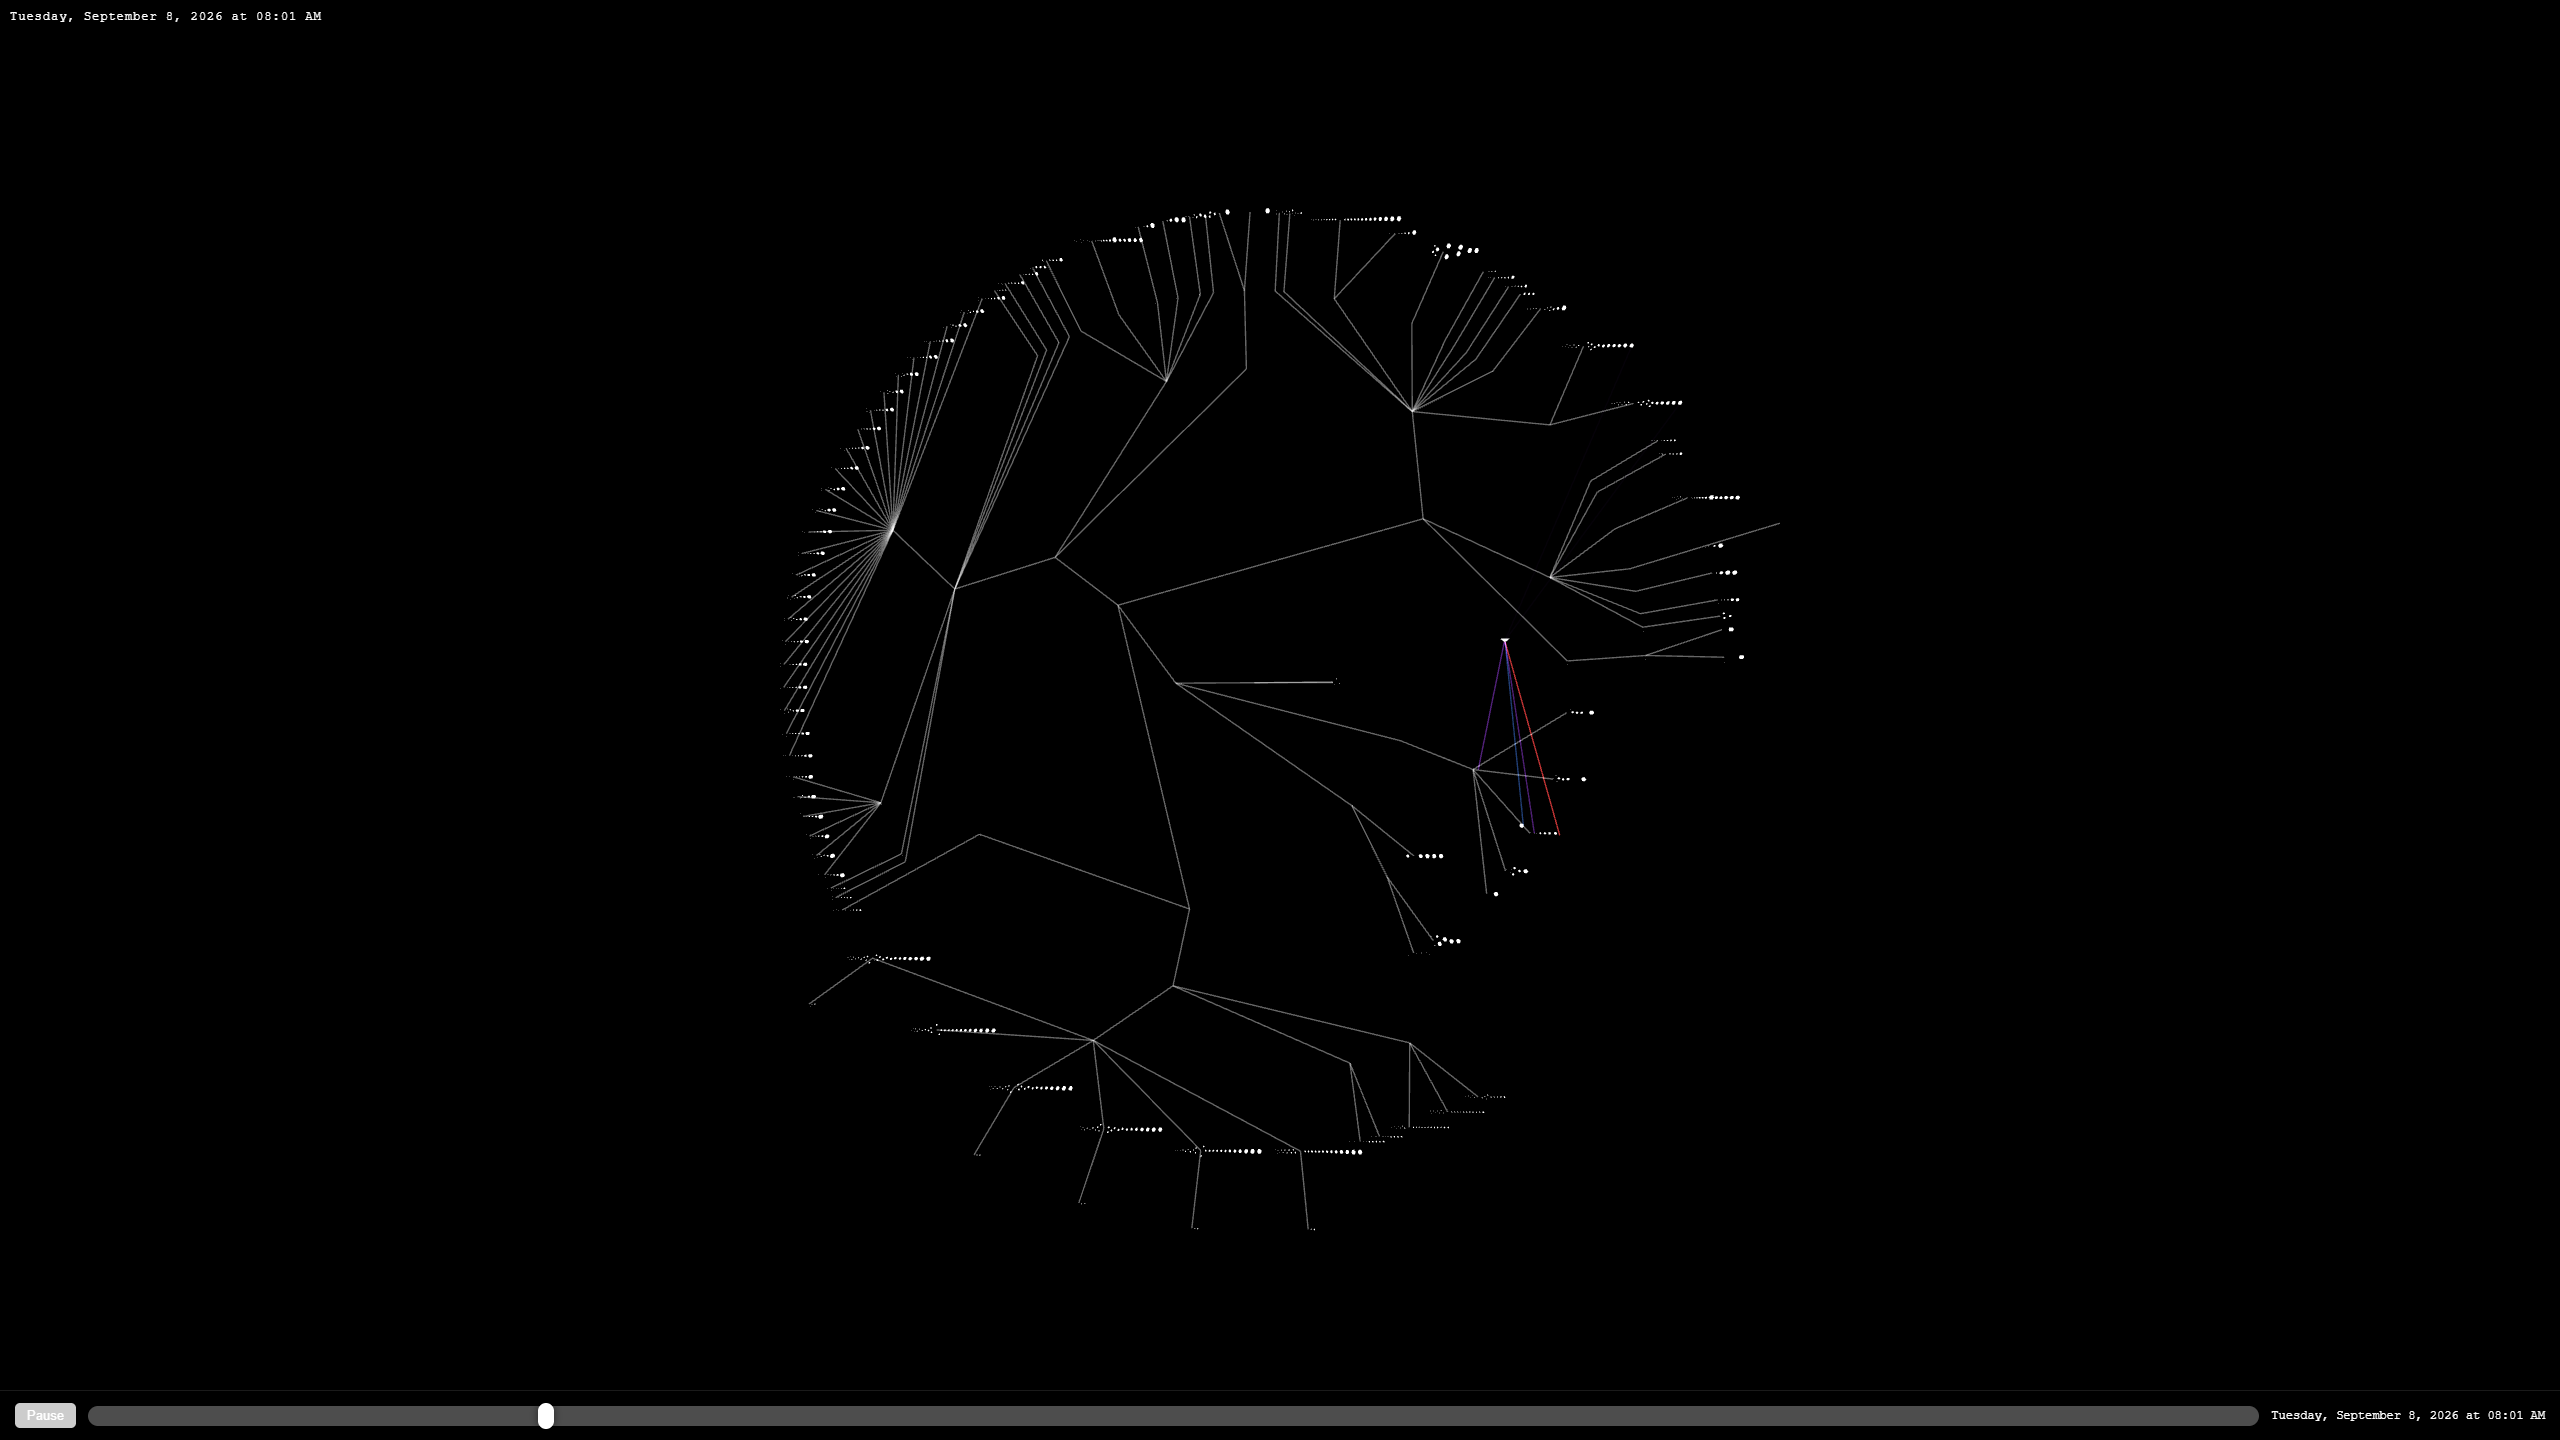
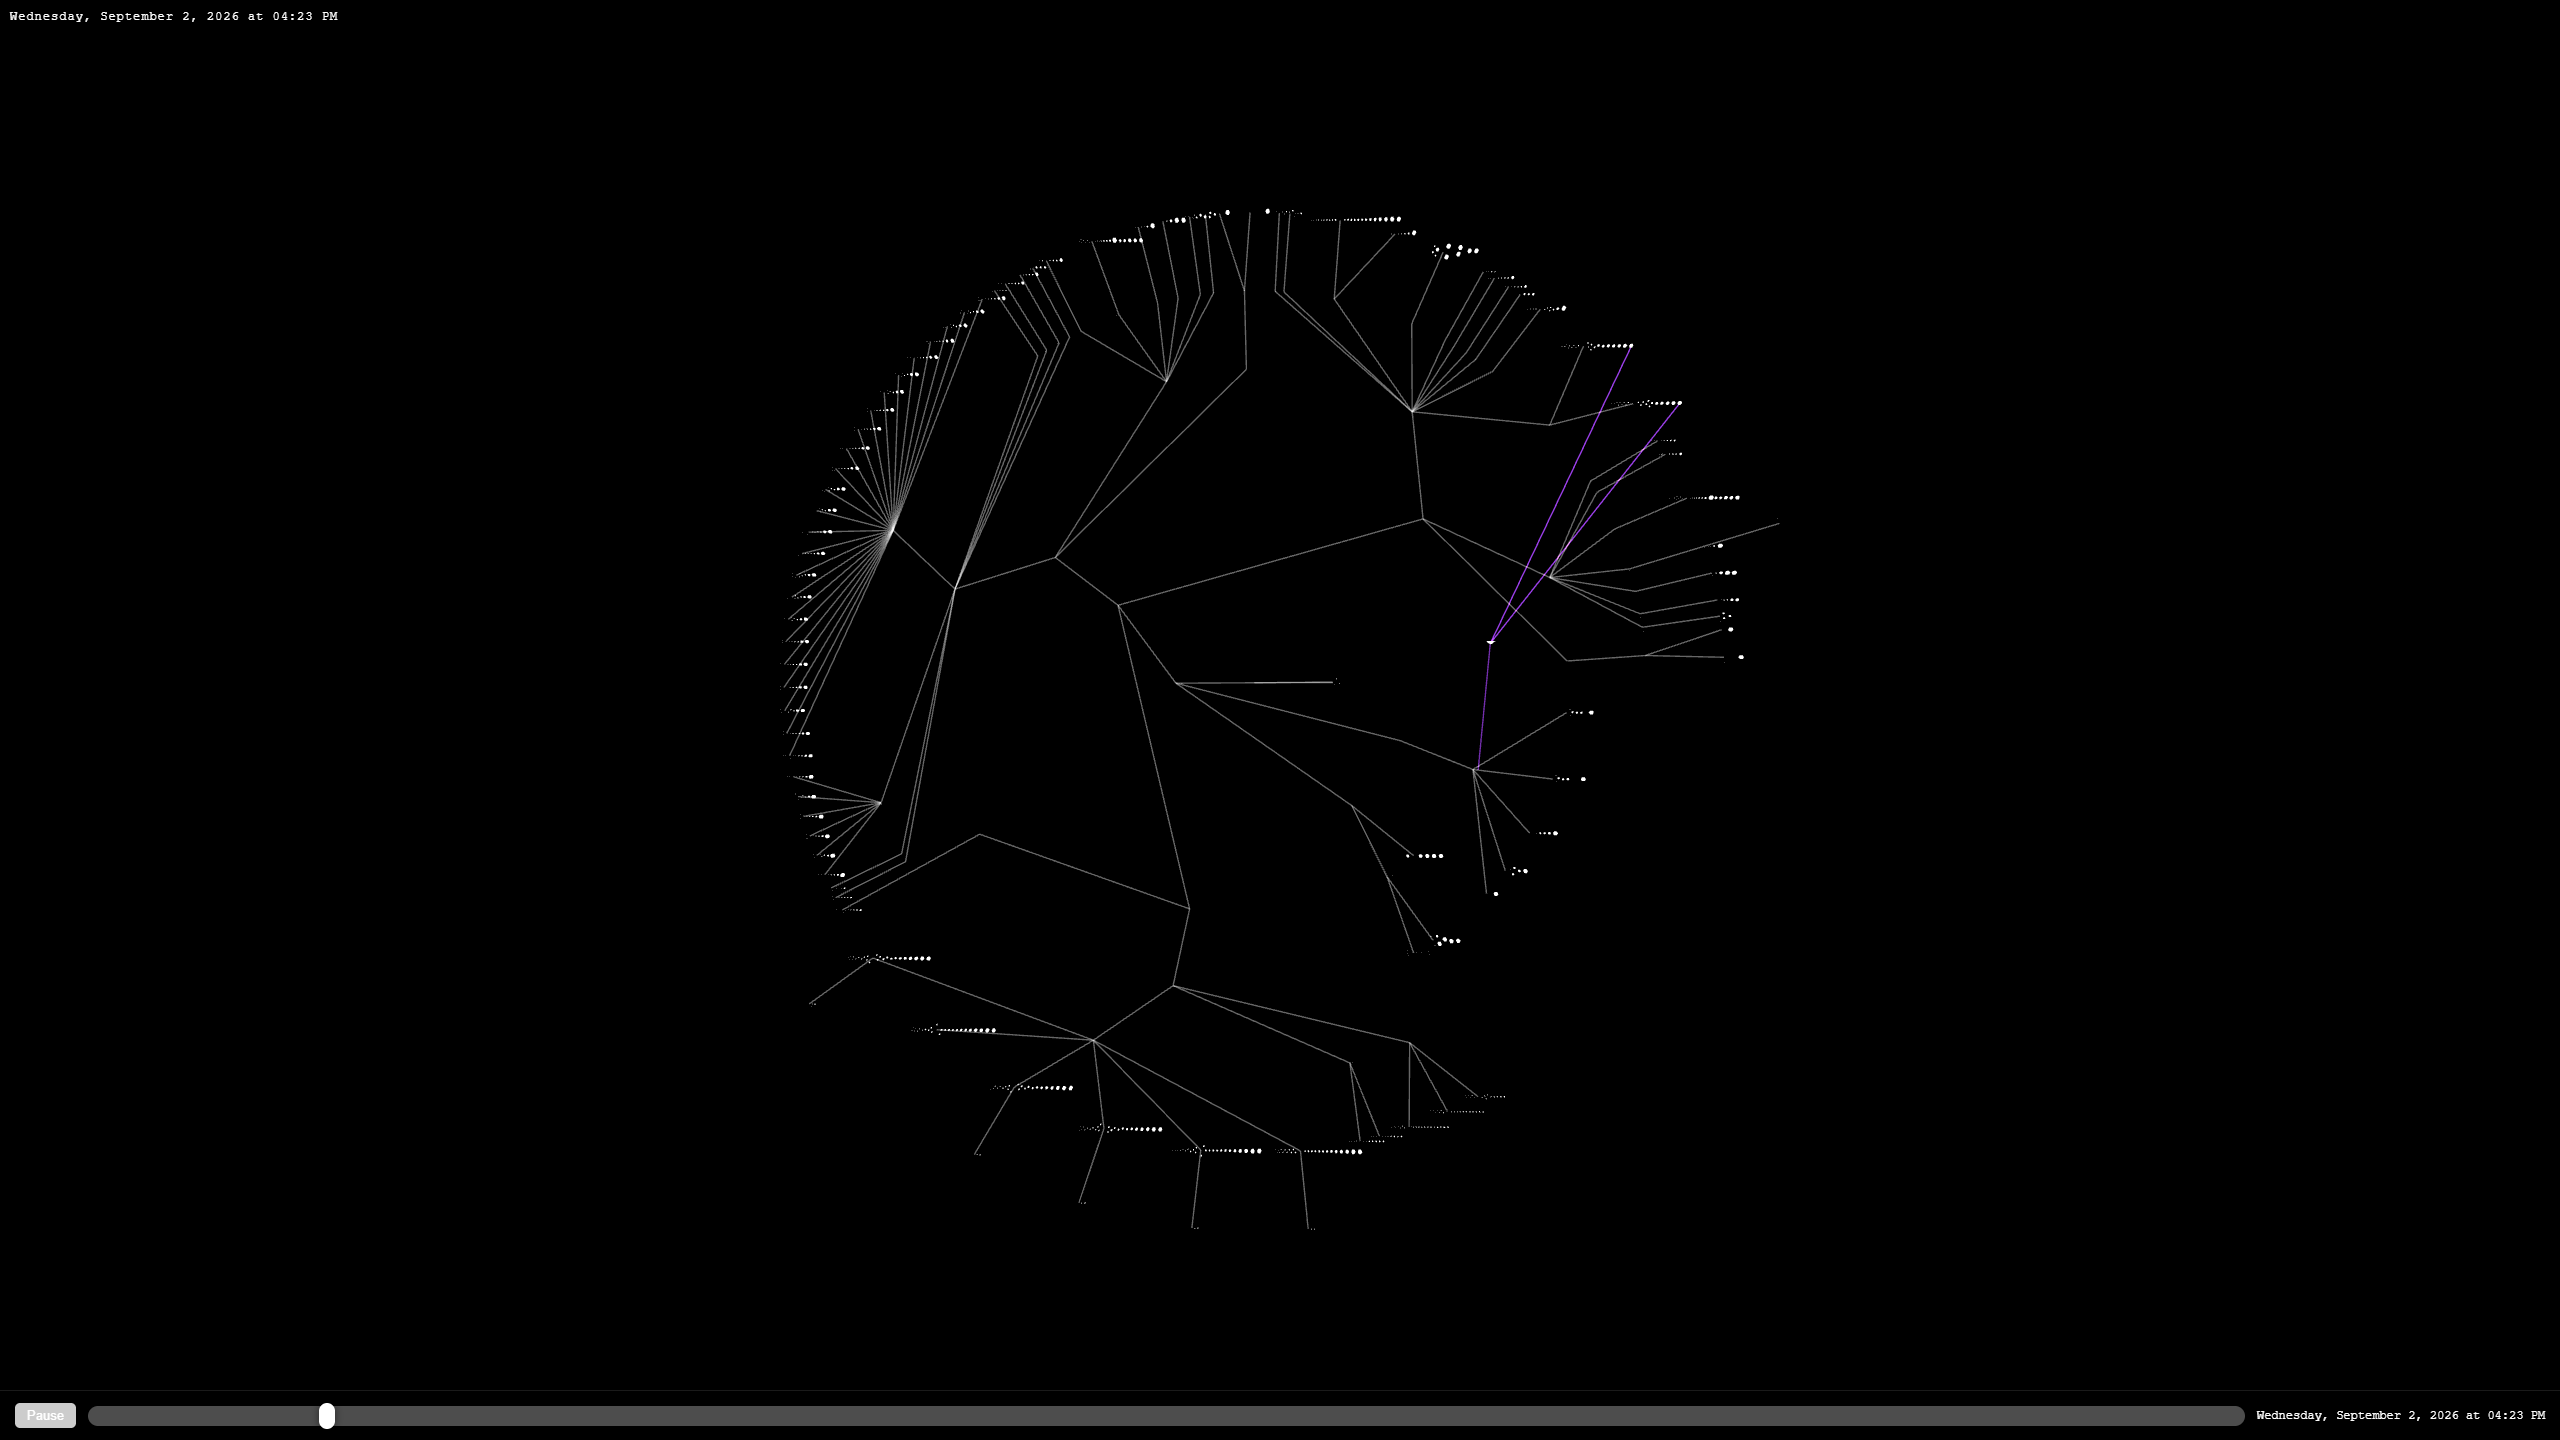
fix: consistent forceSize floor across all file creation paths
All forceSize assignments for files now use Math.max(..., 10) floor:
- createFileNode, addFileToTree, calculateNodeDimensions, processCommit M-action
Previously files could get forceSize as low as 1.5 (from GLOBAL_SCALE),
causing inconsistent layout spacing and visual scale.

Results on tnom-bot: 0 road crossings, 0 JS errors, 14 overlaps after settle

diff --git a/public/phource.js b/public/phource.js
@@ -196,7 +196,7 @@ function createFileNode(name, fullPath, loc, count, colourHex, depth, actionType
         buildingWidth: dims.width, buildingDepth: dims.depth, buildingHeight: dims.height,
         mesh: null,
         targetPos: new THREE.Vector3(0, 0, 0),
-        forceSize: Math.min(Math.max(dims.width, dims.depth), 100),
+        forceSize: Math.min(Math.max(Math.max(dims.width, dims.depth), 10), 100),
         currentAlpha: 0, targetAlpha: 1, fadingOut: false, pendingRemoval: false,
         parentDir: null,
     };
@@ -1499,7 +1499,7 @@ function processCommit(entry) {
             fileNode.buildingWidth = dims.width;
             fileNode.buildingDepth = dims.depth;
             fileNode.buildingHeight = dims.height;
-            fileNode.forceSize = Math.min(Math.max(dims.width, dims.depth), 100);
+            fileNode.forceSize = Math.min(Math.max(Math.max(dims.width, dims.depth), 10), 100);
             // No treeDirty — forceSize updated directly, simulation handles it
         } else {
             fileNode = addFileToTree(filePath, entry.loc, entry.count, entry.colour, 'M');

diff --git a/public/index.html b/public/index.html
@@ -120,6 +120,6 @@
             }
         }
     </script>
-    <script type="module" src="phource.js?v=118"></script>
+    <script type="module" src="phource.js?v=119"></script>
 </body>
 </html>
